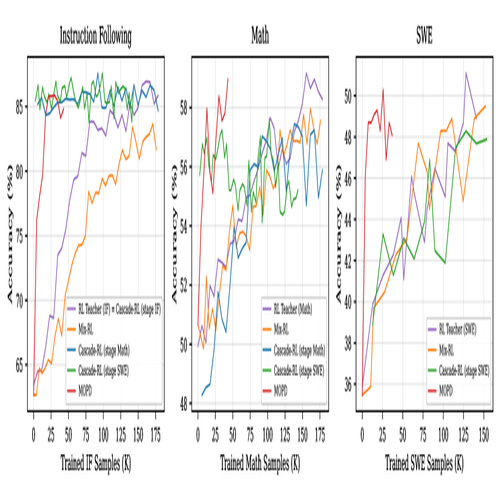
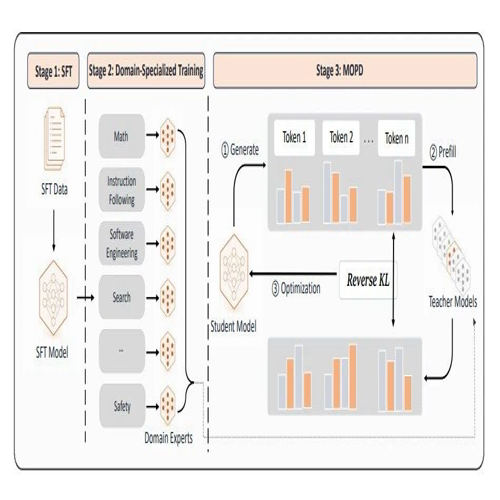
auto: ASKS.md, mopd, vllm-semantic-router (+5, ~4)

diff --git a/mopd/draft_from_server.html b/mopd/draft_from_server.html
@@ -1,0 +1,1 @@
+<section style="font-family: -apple-system-font,BlinkMacSystemFont, Helvetica Neue, PingFang SC, Hiragino Sans GB , Microsoft YaHei UI , Microsoft YaHei ,Arial,sans-serif;font-size: 16px;line-height: 1.75;text-align: left;"><p><strong style="font-weight: bold;font-size: 16px;color: #1a6ba0;"><span leaf="">要点速览</span></strong></p><p><span leaf="">&nbsp;-&nbsp;</span><strong style="color: #0F4C81;font-weight: bold;font-size: inherit;"><span leaf="">MOPD是什么</span></strong><span leaf="">：Multi-Teacher On-Policy Distillation，一种新的大模型后训练范式，先对各领域独立RL得到领域教师，再在学生自己的生成数据上做蒸馏，实现多领域能力集成。</span><span leaf=""><br  /></span><span leaf=""><br  /></span><span leaf="">&nbsp;-&nbsp;</span><strong style="color: #0F4C81;font-weight: bold;font-size: inherit;"><span leaf="">效果如何</span></strong><span leaf="">：在Qwen3-30B-A3B上归一化得分0.937，领先最佳基线5.5个点；三个领域能力覆盖91-95%，在所有对比方法中最均匀。</span><span leaf=""><br  /></span><span leaf=""><br  /></span><span leaf="">&nbsp;-&nbsp;</span><strong style="color: #0F4C81;font-weight: bold;font-size: inherit;"><span leaf="">结构优势</span></strong><span leaf="">：领域教师完全并行开发，不交叉影响；同源教师（same-origin）是稳定训练的关键：换更强但分布不同的教师反而会崩。</span><span leaf=""><br  /></span><span leaf=""><br  /></span><span leaf="">&nbsp;-&nbsp;</span><strong style="color: #0F4C81;font-weight: bold;font-size: inherit;"><span leaf="">工业验证</span></strong><span leaf="">：已部署在小米MiMo-V2-Flash（309B参数）的后训练流水线中，在大部分基准上媲美或超越领域专用教师。&nbsp;</span></p><hr style="border-style: solid;border-width: 2px 0 0;border-color: rgba(0, 0, 0, 0.1);-webkit-transform-origin: 0 0;-webkit-transform: scale(1, 0.5);transform-origin: 0 0;transform: scale(1, 0.5);height: 0.4em;margin: 1.5em 0;"  /><p style="margin: 1.5em 8px;letter-spacing: 0.1em;color: #3f3f3f;"><span leaf="">RL在LLM后训练中的成功已是共识：数学用可验证答案的PPO/GRPO，代码用沙箱Agent RL，指令遵循用评分标准。每一条流水线都可靠地提升了模型在其目标领域的能力。但问题很简单也极难：</span><strong style="color: #0F4C81;font-weight: bold;font-size: inherit;"><span leaf="">我们需要的是一个数学强人、一个编码高手、一个听话的助手：全部集于一身。</span></strong></p><p style="margin: 1.5em 8px;letter-spacing: 0.1em;color: #3f3f3f;"><span leaf="">把多个领域的能力放进一个模型而不互相干扰，这件事在公开文献中一直没有好的答案。Mix-RL的跷跷板效应、Cascade RL的能力衰退、Off-Policy Finetune的暴露偏差、Param-Merge的权重空间不稳定性：每一种都牺牲了某个维度。</span></p><p style="margin: 1.5em 8px;letter-spacing: 0.1em;color: #3f3f3f;"><span leaf="">小米和北大联合提出的MOPD（Multi-Teacher On-Policy Distillation）给出了一个新的解法：</span><strong style="color: #0F4C81;font-weight: bold;font-size: inherit;"><span leaf="">不在权重空间里搅合，也不在静态数据集上模仿，而是在策略空间中让学生直接向多位领域教师学习。</span></strong></p><p style="margin: 1.5em 8px;letter-spacing: 0.1em;color: #3f3f3f;"><strong style="color: #0F4C81;font-weight: bold;font-size: inherit;"><span leaf="">MOPD的三个阶段</span></strong></p><p style="margin: 1.5em 8px;letter-spacing: 0.1em;color: #3f3f3f;"><span leaf="">MOPD将后训练拆成三段：</span></p><ul style="list-style: circle;padding-left: 1em;margin-left: 0;color: #3f3f3f;" class="list-paddingleft-1"><li style="display: block;margin: 0.2em 8px;color: #3f3f3f;"><section><span leaf="">•&nbsp;</span><strong style="color: #0F4C81;font-weight: bold;font-size: inherit;"><span leaf="">Stage 1：通用SFT</span></strong><span leaf="">。在覆盖所有目标领域的语料上微调基础模型，得到一个共享起点。</span></section></li><li style="display: block;margin: 0.2em 8px;color: #3f3f3f;"><section><span leaf="">•&nbsp;</span><strong style="color: #0F4C81;font-weight: bold;font-size: inherit;"><span leaf="">Stage 2：领域特化RL</span></strong><span leaf="">。从共享起点出发，对每个领域独立训练一个RL专家。数学团队用可验证答案的RL，软件工程团队用沙箱Agent RL，互不干扰、完全并行。</span></section></li><li style="display: block;margin: 0.2em 8px;color: #3f3f3f;"><section><span leaf="">•&nbsp;</span><strong style="color: #0F4C81;font-weight: bold;font-size: inherit;"><span leaf="">Stage 3：MOPD蒸馏</span></strong><span leaf="">。学生从共享起点初始化，各领域专家冻结为教师。在同一批数据上，学生先生成回复（rollout），再按领域分发给对应教师：教师在学生生成的回复上计算每token概率，然后学生通过最小化反向KL散度向教师对齐。</span></section></li></ul><section style="text-align: center;" nodeleaf=""><img class="rich_pages wxw-img" data-aistatus="1" data-imgfileid="100002855" data-s="300,640" data-src="https://mmbiz.qpic.cn/sz_mmbiz_png/MJRkdzPjdxRWAQqmicU4a7icuKxpGcY1dm3erPGOicqZqowZbN9CzurNliaiaHLaADPULztFaC2z3lemiaKUGMICjFjA4TJ4jrvcA65Tb2uKWxoGg/640?wx_fmt=png&amp;from=appmsg" data-type="png" type="block"></section><p style="margin: 1.5em 8px;letter-spacing: 0.1em;color: #3f3f3f;"><strong style="color: #0F4C81;font-weight: bold;font-size: inherit;"><span leaf="">关键设计在Stage 3</span></strong><span leaf="">：教师不是在"自己的"数据上打分，而是在</span><strong style="color: #0F4C81;font-weight: bold;font-size: inherit;"><span leaf="">学生自己生成</span></strong><span leaf="">的文本上打分。这从根本上规避了异策略（off-policy）训练的暴露偏差：学生看到的训练分布和推理分布是一致的。</span></p><p style="margin: 1.5em 8px;letter-spacing: 0.1em;color: #3f3f3f;"><strong style="color: #0F4C81;font-weight: bold;font-size: inherit;"><span leaf="">结构优势不止一个</span></strong></p><p style="margin: 1.5em 8px;letter-spacing: 0.1em;color: #3f3f3f;"><span leaf="">MOPD带来的收益是多层的：</span></p><ul style="list-style: circle;padding-left: 1em;margin-left: 0;color: #3f3f3f;" class="list-paddingleft-1"><li style="display: block;margin: 0.2em 8px;color: #3f3f3f;"><section><span leaf="">•&nbsp;</span><strong style="color: #0F4C81;font-weight: bold;font-size: inherit;"><span leaf="">密集信号</span></strong><span leaf="">：教师在每个token上提供完整的概率分布，而不是RL中一个稀疏的奖励分数</span></section></li><li style="display: block;margin: 0.2em 8px;color: #3f3f3f;"><section><span leaf="">•&nbsp;</span><strong style="color: #0F4C81;font-weight: bold;font-size: inherit;"><span leaf="">彻底解耦</span></strong><span leaf="">：各领域教师可独立开发、独立调参，一个教师的失败不影响其他教师</span></section></li><li style="display: block;margin: 0.2em 8px;color: #3f3f3f;"><section><span leaf="">•&nbsp;</span><strong style="color: #0F4C81;font-weight: bold;font-size: inherit;"><span leaf="">并行加速</span></strong><span leaf="">：教师预填充与学生采样异步重叠，墙钟时间几乎不增加</span></section></li><li style="display: block;margin: 0.2em 8px;color: #3f3f3f;"><section><span leaf="">•&nbsp;</span><strong style="color: #0F4C81;font-weight: bold;font-size: inherit;"><span leaf="">策略空间融合</span></strong><span leaf="">：按提示路由到对应教师，而非在参数空间做权重平均：避免了Param-Merge的不稳定</span></section></li></ul><p style="margin: 1.5em 8px;letter-spacing: 0.1em;color: #3f3f3f;"><strong style="color: #0F4C81;font-weight: bold;font-size: inherit;"><span leaf="">实验结果：五个基线中唯一均匀覆盖</span></strong></p><p style="margin: 1.5em 8px;letter-spacing: 0.1em;color: #3f3f3f;"><span leaf="">在Qwen3-30B-A3B上，MOPD与Mix-RL、Cascade RL、Off-Policy Finetune和Param-Merge（两种变体）对比，覆盖数学、指令遵循和软件工程三个领域。归一化得分消除了各领域的绝对分差，0等于SFT学生，1等于领域特化教师。</span></p><section style="text-align: center;" nodeleaf=""><img class="rich_pages wxw-img" data-aistatus="1" data-imgfileid="100002856" data-s="300,640" data-src="https://mmbiz.qpic.cn/mmbiz_png/MJRkdzPjdxR1PM7OmyTnLOIIiaQoXfhzUMcaBMickETsdIk2ZT7tbc4YibfzR2lSHHnWWdhw7XkckibsOQh31YILUicZFMps4RpI6wMORssl4ENI/640?wx_fmt=png&amp;from=appmsg" data-type="png" type="block"></section><p style="margin: 1.5em 8px;letter-spacing: 0.1em;color: #3f3f3f;"><span leaf="">MOPD以0.937的归一化得分领先最佳基线Mix-RL（0.882）5.5个点。更重要的是，它的三个领域归一化得分落在 [0.91, 0.95]，范围仅0.044，是所有方法中最均匀的。其他方法各有软肋：Cascade RL的数学闭眼率仅57%（范围0.41），Off-Policy Finetune的SWE闭眼率仅65%（范围0.36），Mix-RL虽较均衡但仍差5.5分。Param-Merge的线性平均更是只有0.328。</span></p><p style="margin: 1.5em 8px;letter-spacing: 0.1em;color: #3f3f3f;"><span leaf="">样本效率同样是亮点：MOPD在IF领域约25K样本即触达教师级水平，而Mix-RL每个领域需要150-180K样本。密集的token级监督信号带来了更快的收敛。</span></p><p style="margin: 1.5em 8px;letter-spacing: 0.1em;color: #3f3f3f;"><span leaf=""><img class="rich_pages wxw-img" data-aistatus="1" data-ratio="0.286144578313253" data-src="https://mmbiz.qpic.cn/sz_mmbiz_png/MJRkdzPjdxQzqXtTkKdD6D6CibaAqzQ8Uricrutskic7grhSViaEopKrIcCpR5sB5MsAzNKPxNxRD7EuYgfzV9hsQ0TqWeBte2ibpmbDHOkJhqC0/640?from=appmsg" data-w="996" style="display: block;width: 100%;margin: 1.5em auto;height: auto !important;"></span><span style="font-size:12px;color:rgb(153,153,153);"><span leaf="">MOPD的训练动力学曲线（左：指令遵循，中：数学，右：软件工程）。紫色线为领域专用RL教师参考，MOPD在各领域快速逼近教师水平。</span></span></p><p style="margin: 1.5em 8px;letter-spacing: 0.1em;color: #3f3f3f;"><strong style="color: #0F4C81;font-weight: bold;font-size: inherit;"><span leaf="">工业验证：MiMo-V2-Flash 309B模型</span></strong></p><p style="margin: 1.5em 8px;letter-spacing: 0.1em;color: #3f3f3f;"><span leaf="">MOPD不是实验室玩具。它已被部署在小米MiMo-V2-Flash（309B参数）的后训练中，覆盖数学、代码、指令遵循、软件工程和工具使用五个领域。在7个基准上，MOPD在5个上超越教师、2个上略低于教师（IFBench -2.2，SWE-Bench Verified -0.8），整体匹配甚至超越领域专用教师的表现。</span></p><p style="margin: 1.5em 8px;letter-spacing: 0.1em;color: #3f3f3f;"><strong style="color: #0F4C81;font-weight: bold;font-size: inherit;"><span leaf="">为什么"同源教师"是关键</span></strong></p><p style="margin: 1.5em 8px;letter-spacing: 0.1em;color: #3f3f3f;"><span leaf="">MOPD的一个反直觉发现：</span><strong style="color: #0F4C81;font-weight: bold;font-size: inherit;"><span leaf="">用更强的教师不一定更好。</span></strong><span leaf="">&nbsp;在数学领域，实验将原生的Qwen3-30B-A3B数学教师替换为Qwen3-235B-A22B（一个数学能力更强的超大模型），结果MOPD学生的数学性能反而下降。</span></p><section style="text-align: center;" nodeleaf=""><img class="rich_pages wxw-img" data-aistatus="1" data-imgfileid="100002858" data-s="300,640" data-src="https://mmbiz.qpic.cn/sz_mmbiz_png/MJRkdzPjdxSVz57DzLdyv6fSxGbjakuGlyudMOH9MiaWn2Ju7bTReNCLBDc8JtoNBMNb7hjODWUYIzHiaG7ibz8x32lIXMmCU8OpJjMtHk8lsI/640?wx_fmt=png&amp;from=appmsg" data-type="png" type="block"></section><p style="margin: 1.5em 8px;letter-spacing: 0.1em;color: #3f3f3f;"><span leaf="">原因在分布差距。同源教师与学生只差3个领域的RL训练，初始每token KL散度仅&nbsp;</span><span style="text-decoration: underline wavy;text-decoration-color: #0F4C81;text-decoration-thickness: 2px;"><span leaf="">0.04；而235B大模型教师的分布差距高达&nbsp;</span></span><span leaf="">0.19（5倍）。学生在每个token上都收到大量"你这里不对"的惩罚性梯度信号，策略空间逐渐坍缩到单一模式，top-k蒸馏形式甚至在第18步直接发散。</span></p><section style="text-align: center;" nodeleaf=""><img class="rich_pages wxw-img" data-aistatus="1" data-imgfileid="100002857" data-s="300,640" data-src="https://mmbiz.qpic.cn/mmbiz_png/MJRkdzPjdxRr9fO7wKeTm7V62CDfCic7vt4pd3YVK4XL8qBDTnK9M2rcA5r7M2RkBO2vR9fBmH7HxfFCmtXx6ibVlMicn8m7DSSLIjlHZ6qVDU/640?wx_fmt=png&amp;from=appmsg" data-type="png" type="block"></section><p style="margin: 1.5em 8px;letter-spacing: 0.1em;color: #3f3f3f;"><span leaf="">这个结果传达了一个隐含但重要的设计原则：</span><strong style="color: #0F4C81;font-weight: bold;font-size: inherit;"><span leaf="">蒸馏的优势不在于"利用更强的外部知识"，而在于"在相近的分布上做精细对齐"。</span></strong><span leaf="">&nbsp;同源教师不是一个巧合，而是MOPD稳定性的结构性前提。</span></p><p style="margin: 1.5em 8px;letter-spacing: 0.1em;color: #3f3f3f;"><strong style="color: #0F4C81;font-weight: bold;font-size: inherit;"><span leaf="">多轮迭代：持续进化的可能</span></strong></p><p style="margin: 1.5em 8px;letter-spacing: 0.1em;color: #3f3f3f;"><span leaf="">一轮MOPD后仍有改进空间。将MOPD学生作为新的起点，重新训练领域教师再做第二轮蒸馏，归一化得分从0.937进一步上升到0.986（+0.049）。这打开了持续进化的可能性：每轮蒸馏吸收当前教师的能力，然后新教师从更强的学生出发，在更高起点上再做特化。</span></p><p><strong style="font-weight: bold;font-size: 15px;color: #8b6f4c;"><span leaf="">结语</span></strong></p><p><span leaf="">&nbsp;MOPD的价值不在于它比Mix-RL多了5.5个点：数字在下一次刷榜就可能被超过。它的真正贡献是拆掉了多领域后训练中的耦合。在工程层面，这意味着数学团队和代码团队可以各自迭代、各自重启而互不等待；在系统层面，这意味着从"大家一起塞一个训练脚本"变成了"分开训练、蒸馏集成"的生产线逻辑。</span><span leaf=""><br  /></span><span leaf=""><br  /></span><span leaf="">&nbsp;这思路对大规模模型训练的工业化有直接启示：能力生产（训练）和能力组装（蒸馏）的解耦，可能像硬件设计中IP模块化和片上集成的分离一样，是规模化后训练的必经之路。&nbsp;</span></p><hr style="border-style: solid;border-width: 2px 0 0;border-color: rgba(0, 0, 0, 0.1);-webkit-transform-origin: 0 0;-webkit-transform: scale(1, 0.5);transform-origin: 0 0;transform: scale(1, 0.5);height: 0.4em;margin: 1.5em 0;"  /><p style="margin: 1.5em 8px;letter-spacing: 0.1em;color: #3f3f3f;"><span style="font-size:12px;color:#888888;font-family:&#39;Courier New&#39;,monospace;"><span leaf="">参考：</span></span></p><p style="margin: 1.5em 8px;letter-spacing: 0.1em;color: #3f3f3f;"><span leaf="">https://arxiv.org/html/2606.30406v1</span></p><span leaf="">&nbsp; &nbsp; &nbsp; &nbsp; &nbsp; &nbsp; &nbsp; &nbsp; &nbsp; &nbsp; &nbsp; &nbsp;&nbsp;</span></section><p style="display: none;"><mp-style-type data-value="10000"></mp-style-type></p>

diff --git a/TASKS.md b/TASKS.md
@@ -56,8 +56,8 @@
 | 44 | 2026-07-01 | https://research.nvidia.com/labs/eai/blogs/pushing-intelligence-to-4-bit/ | Pushing Intelligence to 4-bit | pushing-intelligence-to-4-bit | 把智能压进4比特：NVIDIA NVFP4全栈精度革命 | cover | ✅ 已推送 |
 | 45 | 2026-07-01 | https://x.com/mem0ai/status/2071990201531118063 | ChatGPT 记忆的真相：无 RAG、无检索、只有一份预加载的 Profile | chatgpt-memory-works | ChatGPT 记忆的真相：无 RAG、无检索、只有一份预加载的 Profile | cover.png | ✅ 已推送 |
 | 46 | 2026-07-01 | https://claude.com/blog/getting-started-with-loops | getting-started-with-loops | getting-started-with-loops | Claude 入门 Loops：让 Agent 自己循环工作，直到完成为止 | cover.png | ✅ 已推送 |
-| 47 | 2026-07-01 | https://arxiv.org/html/2606.30406v1 | 2606-30406 | mopd | MOPD：多教师同策略蒸馏，打散后训练中的能力耦合 | cover.png | ✅ 已推送 |
-| 48 | 2026-07-01 | https://arxiv.org/html/2603.04444v4 | vLLM Semantic Router | vllm-semantic-router | TBD | TBD | 📥 进行中 |
+| 47 | 2026-07-01 | https://arxiv.org/html/2606.30406v1 | 2606-30406 | mopd | 小米MiMo罗福莉后训练新范式MOPD: 多教师同策略蒸馏，让多领域能力无损集成 | cover_wx.jpg | ✅ 已推送 |
+| 48 | 2026-07-01 | https://arxiv.org/html/2603.04444v4 | vLLM Semantic Router | vllm-semantic-router | vLLM 开源语义路由器：13种信号+13种算法，一个配置搞定模型路由 | cover.png | ✅ 已推送 |
 || 33 | 2026-06-27 | https://www.langchain.com/blog/deep-agents-prompt-caching | Prompt Caching with Deep Agents | deep-agents-prompt-caching | 推理成本省80%：Deep Agents缓存实测 | cover | ✅ 已推送 |
 ## 状态历史
 
@@ -610,3 +610,5 @@
 |--------|------|------|
 | 2026-07-01 17:54 | 📥 开始 | 收到 URL，开始提取内容 |
 | 2026-07-01 17:54 | 📥 | 开始提取内容 |
+| 2026-07-01 19:36 | ⏳ | 推送中 |
+| 2026-07-01 19:36 | ✅ 已推送 | 首次推送成功，media_id: TIqnnVEu6Oy3-wtKttGa0aiwv1fT-qaQ1OhVChGVG--wO4CJUDGcMcC2aSg8_2uk |

diff --git a/vllm-semantic-router/progress.md b/vllm-semantic-router/progress.md
@@ -10,5 +10,5 @@
 | Step 4: 文章撰写 | completed |
 | Step 4f: Humanizer 润色 | completed |
 | Step 4g: 格式修复 | completed |
-| Step 5: 预发布检查清单 | in_progress |
-| Step 6: 推送草稿 | pending |
+| Step 5: 预发布检查清单 | completed |
+| Step 6: 推送草稿 | completed |